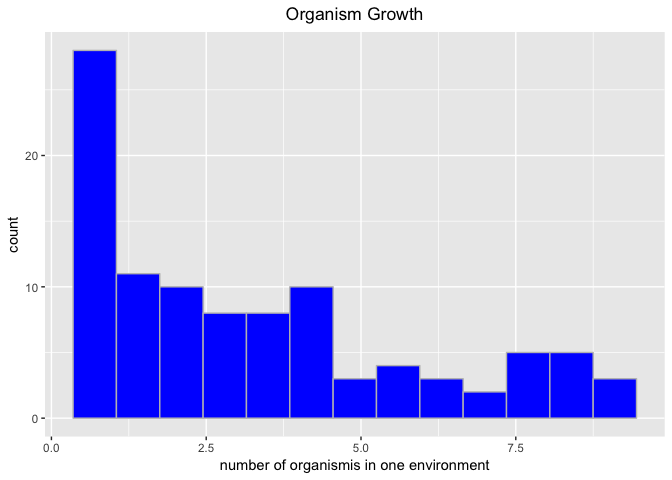
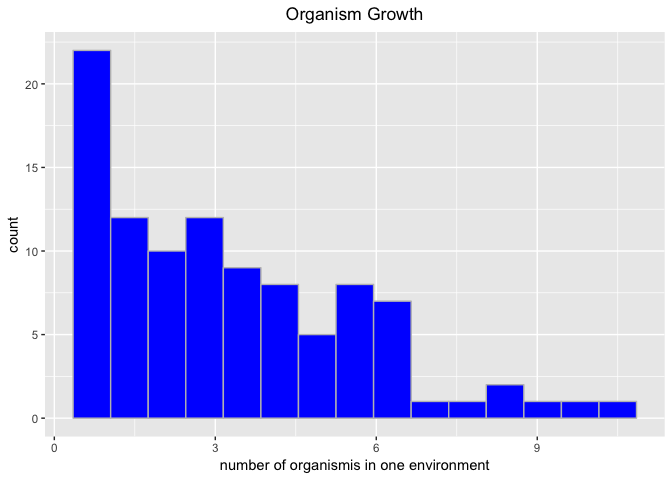
orgs can now mutate

diff --git a/README.md b/README.md
@@ -243,3 +243,32 @@ for (j in 1:length(EnvList) ) {
 ### first Evaluation - a frequency distribution of gaussian organism counts
 
 ![](README_files/figure-markdown_github/gaussian_org_growth_graph-1.png)
+
+let the orgs mutate- simple mutation of the optimal temperature
+---------------------------------------------------------------
+
+``` r
+mutie <- function(mw) {
+  p <- c(0.01, 0.05, 0.88, 0.05, 0.01)
+  upper_limit = mw + 2
+  lower_limit = mw - 2
+  return(sample(lower_limit:upper_limit, 1, replace = T, prob = p))
+}
+```
+
+Create list for our 'gaussian' organism that is able to mutate. The length of this list is the same as that of the environment list.
+------------------------------------------------------------------------------------------------------------------------------------
+
+``` r
+MutieOrgListGauss <- list()
+
+for (l in 1:length(EnvList) ) {
+  MutieOrgListGauss[[l]] <- EvoOrganismGauss$new(tempOpt = 20, nutrientMin = 20, orgCount = 1)
+}
+```
+
+### Gaussian growth with mutation
+
+### Evaluation - a frequency distribution of gaussian organism counts with mutation
+
+![](README_files/figure-markdown_github/gaussian_org_growth_with_mutation_graph-1.png)
